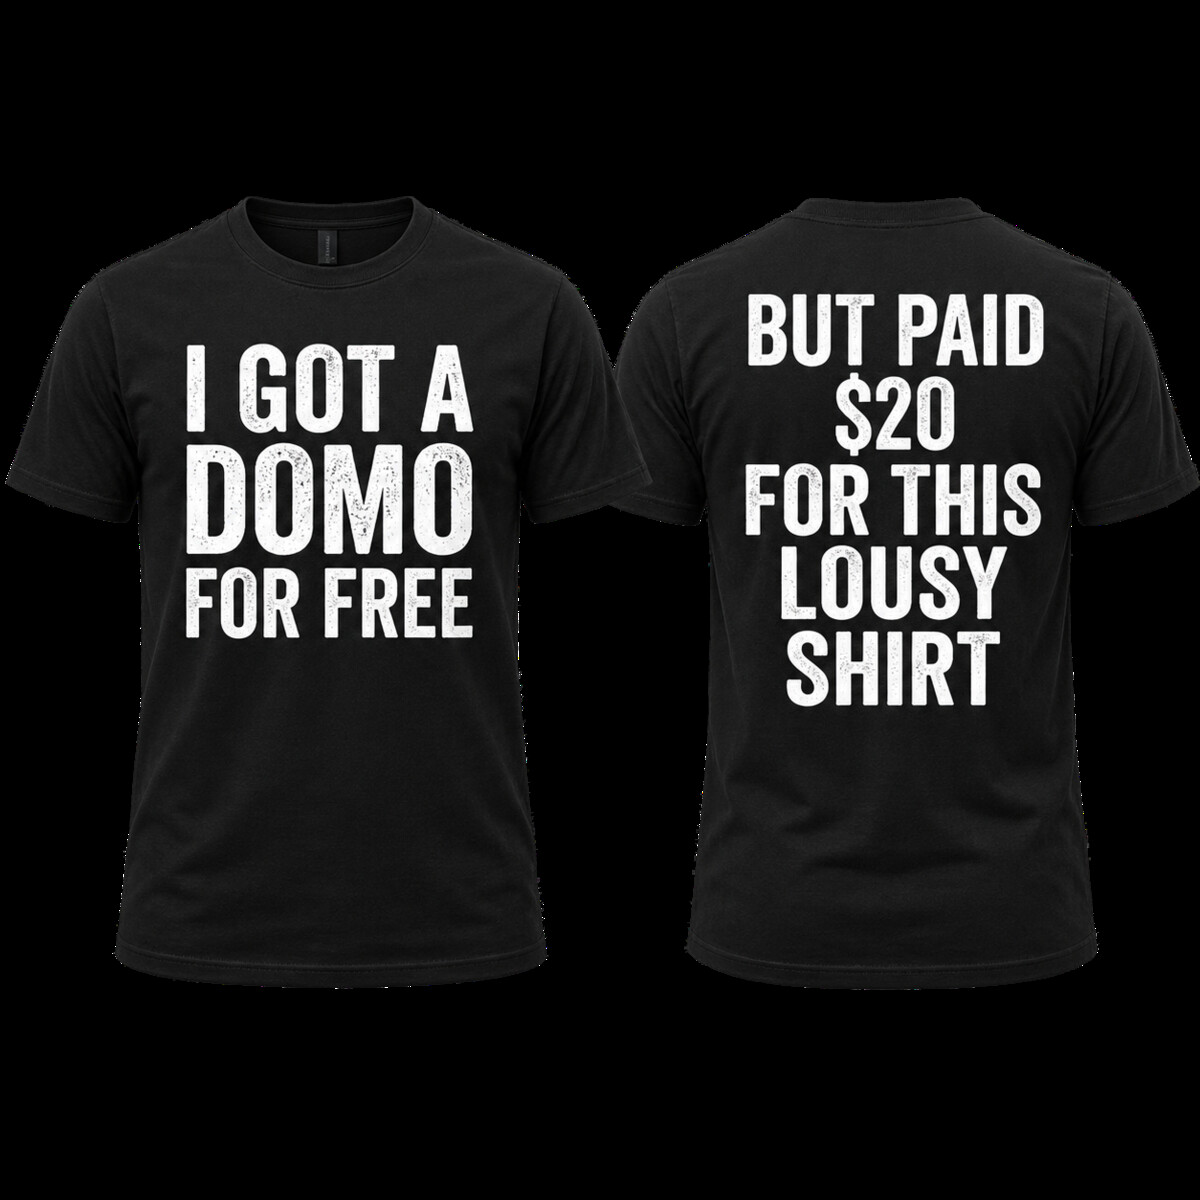
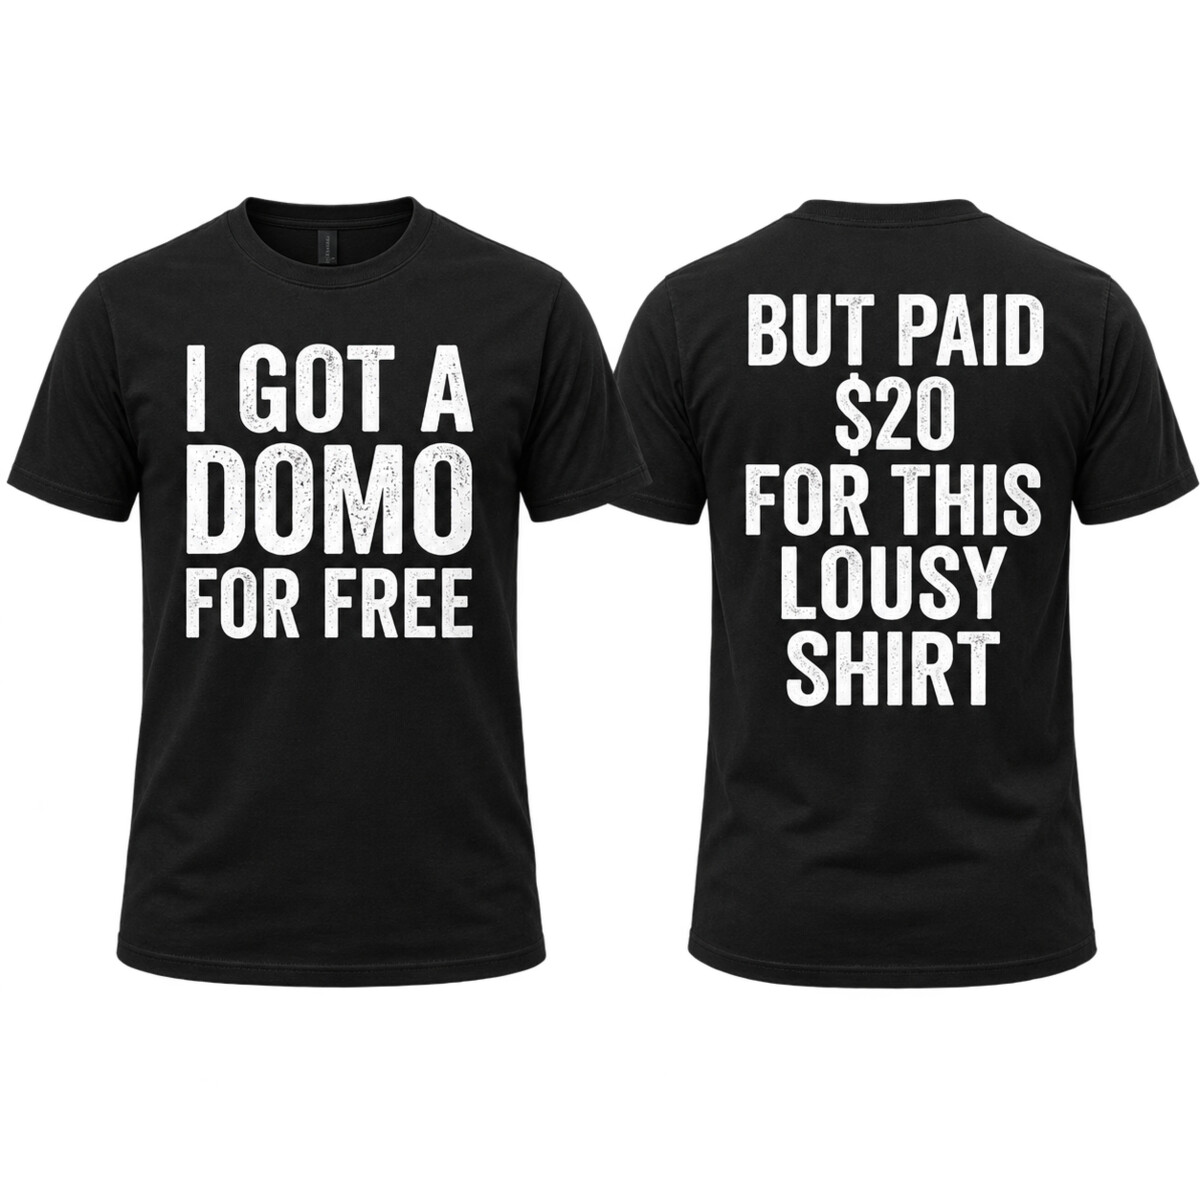
Hamburger consistency, t-shirt background fix, onboarding history fix
Three separate fixes from direct instruction.

1. Hub menu consistency: SEARCH, BROWSE BY DIMENSION, and FULL INDEX
   previously branched on whatever page-specific overlay functions
   happened to be available (landing's toc.js-based TOC overlay,
   nav-wheel.js's native wheel picker), so behavior differed
   depending on where the hamburger was opened from. Per direct
   instruction -- same everywhere, no branching:
     - SEARCH -> always /canon-search/ (the real search page, never
       landing's TOC overlay)
     - BROWSE BY DIMENSION -> always /s3.html
     - FULL INDEX -> always /s3.html
   TAKE A TOUR, ENTER THE SYSTEM, and MARKET were already consistent
   and unchanged. Side effect worth noting: landing's own tocOverlay
   component (search field, close button, alphabetical columns) is
   now completely unreachable -- nothing calls openTOCInteractive()
   anymore. Left in place rather than removed, since that's a
   separate cleanup decision.

   Verified via headless test across 4 different page types (landing,
   an entry, s3.html, market) with hover forced true to match real
   desktop clicks -- all three nodes land on the identical destination
   regardless of starting page. Zero JS errors.

2. domo-free-black.jpg background bug: the original uploaded PNG had
   a genuinely transparent background (confirmed via Pillow: RGBA
   mode, corner pixel (0,0,0,0)). My earlier conversion to JPG never
   specified a background color, so ImageMagick flattened the
[…]

diff --git a/hub-menu.js b/hub-menu.js
@@ -42,18 +42,13 @@
       label: "SEARCH",
       desc: "Query the archive directly.",
       action: () => {
-        // The persistent search FAB (nw-search-fab) has been retired
-        // -- it was redundant with this being the hub menu's own
-        // first option. Landing still gets its nicer in-page overlay
-        // with the search field focused; everywhere else goes
-        // straight to the real dedicated search page the old FAB
-        // used to point to, rather than bouncing through /landing.
-        const tocSearch = document.getElementById("tocSearch");
-        if (tocSearch && typeof window.openTOCInteractive === "function") {
-          window.openTOCInteractive();
-          setTimeout(() => tocSearch.focus(), 500);
-          return;
-        }
+        // Always the real, dedicated search page -- consistent
+        // everywhere, no page-conditional branching to landing's own
+        // TOC-based overlay (toc.js's openTOCInteractive). Previously
+        // used that overlay on landing specifically since it happened
+        // to be available there; explicitly not wanted anymore, per
+        // direct instruction -- SEARCH always means the actual search
+        // page, everywhere.
         window.location.href = "/canon-search/";
       },
     },
@@ -70,16 +65,12 @@
       label: "BROWSE BY DIMENSION",
       desc: "DOCTRINE, BEINGS, PLACE, and five more.",
       action: () => {
-        // The dimension/volume wheel picker (nav-wheel.js) -- matches
-        // this node's own label. Previously this pointed at /s3.html
-        // (the flat index) while FULL INDEX pointed here instead --
-        // the two nodes had their destinations crossed. Swapped so
-        // each node does what its label says.
-        if (typeof window.hubOpenNativeNav === "function") {
-          window.hubOpenNativeNav();
-        } else {
-          window.location.href = "/s3.html";
-        }
+        // Always /s3.html -- consistent everywhere, per direct
+        // instruction. Previously handed off to nav-wheel.js's native
+        // wheel-picker overlay wherever that was available (almost
+        // everywhere nav-wheel.js loads); that conditional branch is
+        // gone now, not just defaulted-around.
+        window.location.href = "/s3.html";
       },
     },
     {
@@ -95,21 +86,13 @@
       label: "FULL INDEX",
       desc: "All 73 entries, A to Z.",
       action: () => {
-        // Always the real, stable flat index -- landing gets its own
-        // nicer in-page overlay (openTOCInteractive, with correct
-        // back-button handling); everywhere else goes straight to
-        // /s3.html, a real page navigation with natural browser-back
-        // behavior. This used to fall back to hubOpenNativeNav (the
-        // dimension wheel picker) on entry pages -- a completely
-        // different UI with no history handling of its own, which
-        // trapped users with no way out except browser-back skipping
-        // past the entry entirely to /landing. Never hand off to the
-        // wheel picker from here again.
-        if (typeof window.openTOCInteractive === "function") {
-          window.openTOCInteractive();
-        } else {
-          window.location.href = "/s3.html";
-        }
+        // Always /s3.html -- the real, stable flat A-Z index, same
+        // destination and same behavior everywhere. Previously used
+        // landing's own TOC overlay (toc.js's openTOCInteractive)
+        // when available there; that conditional branch is gone now
+        // too, matching the same consistency principle applied to
+        // SEARCH and BROWSE BY DIMENSION above.
+        window.location.href = "/s3.html";
       },
     },
     {

diff --git a/foundation.html b/foundation.html
@@ -1364,10 +1364,17 @@
       document.getElementById("proceed-btn").addEventListener("click", () => {
         window.PapaDomoChoice.open({
           onEnterTour: () => {
-            window.location.href = "/tours/";
+            // replace(), not href= -- this is the final step of the
+            // onboarding chain (index -> papadomo -> foundation ->
+            // here), and every step in that chain now uses replace()
+            // so the whole sequence collapses to zero extra history
+            // entries. A single back-press from here should skip the
+            // entire onboarding flow, not walk back through it one
+            // screen at a time.
+            window.location.replace("/tours/");
           },
           onExitHome: () => {
-            window.location.href = "/landing.html";
+            window.location.replace("/landing.html");
           },
         });
       });

diff --git a/index.html b/index.html
@@ -295,7 +295,7 @@
         stopDialup();
         glitch(300);
         setTimeout(() => {
-          window.location.href = "/papadomo.html";
+          window.location.replace("/papadomo.html");
         }, 250);
       }
 
@@ -308,7 +308,7 @@
         vid.pause();
         voice.pause();
         stopDialup();
-        window.location.href = "/papadomo.html";
+        window.location.replace("/papadomo.html");
       }
 
       function startVideoIntro() {

diff --git a/papadomo.html b/papadomo.html
@@ -187,7 +187,7 @@
       rafId = requestAnimationFrame(drawAmbient);
 
       function goNext() {
-        window.location.href = "/foundation.html";
+        window.location.replace("/foundation.html");
       }
 
       fg.addEventListener("timeupdate", () => {
